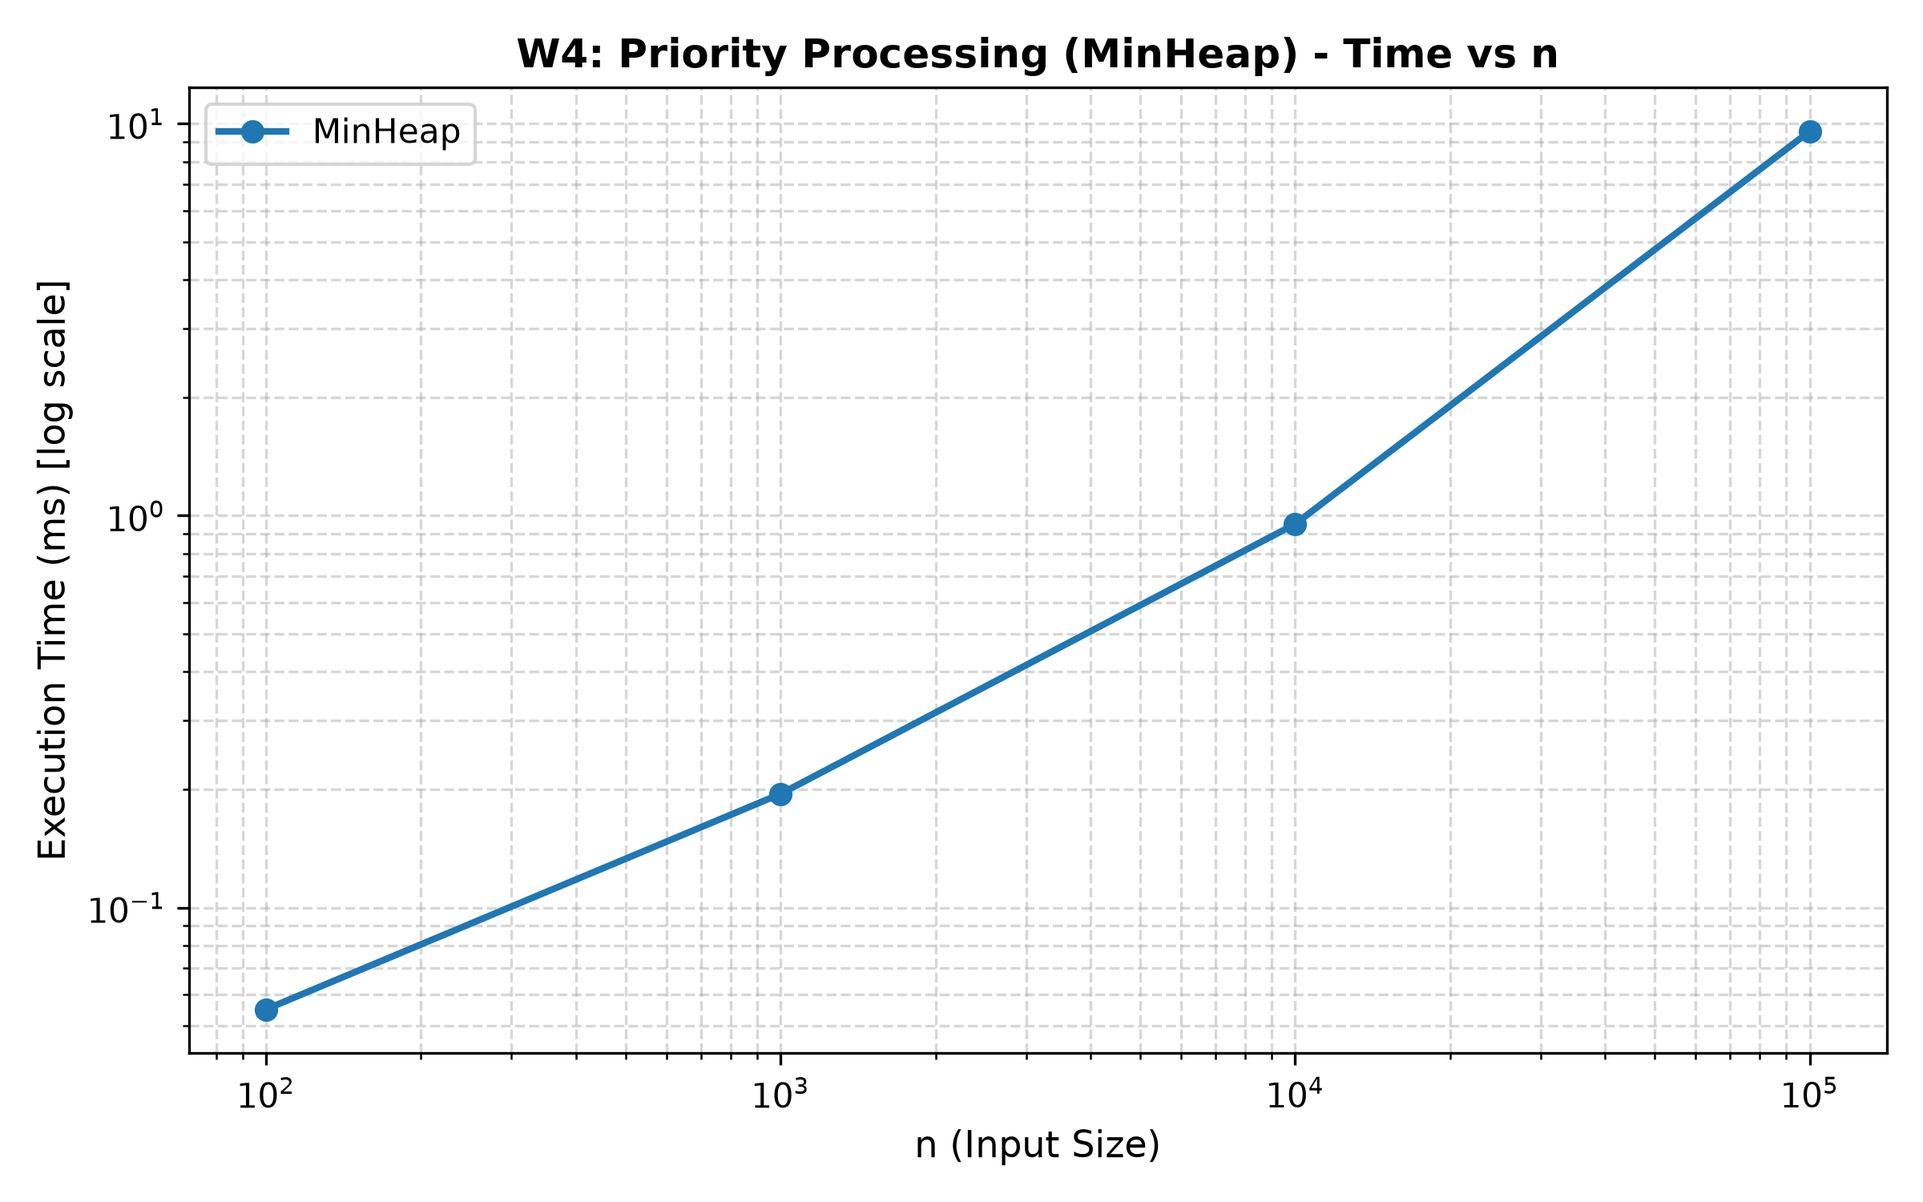
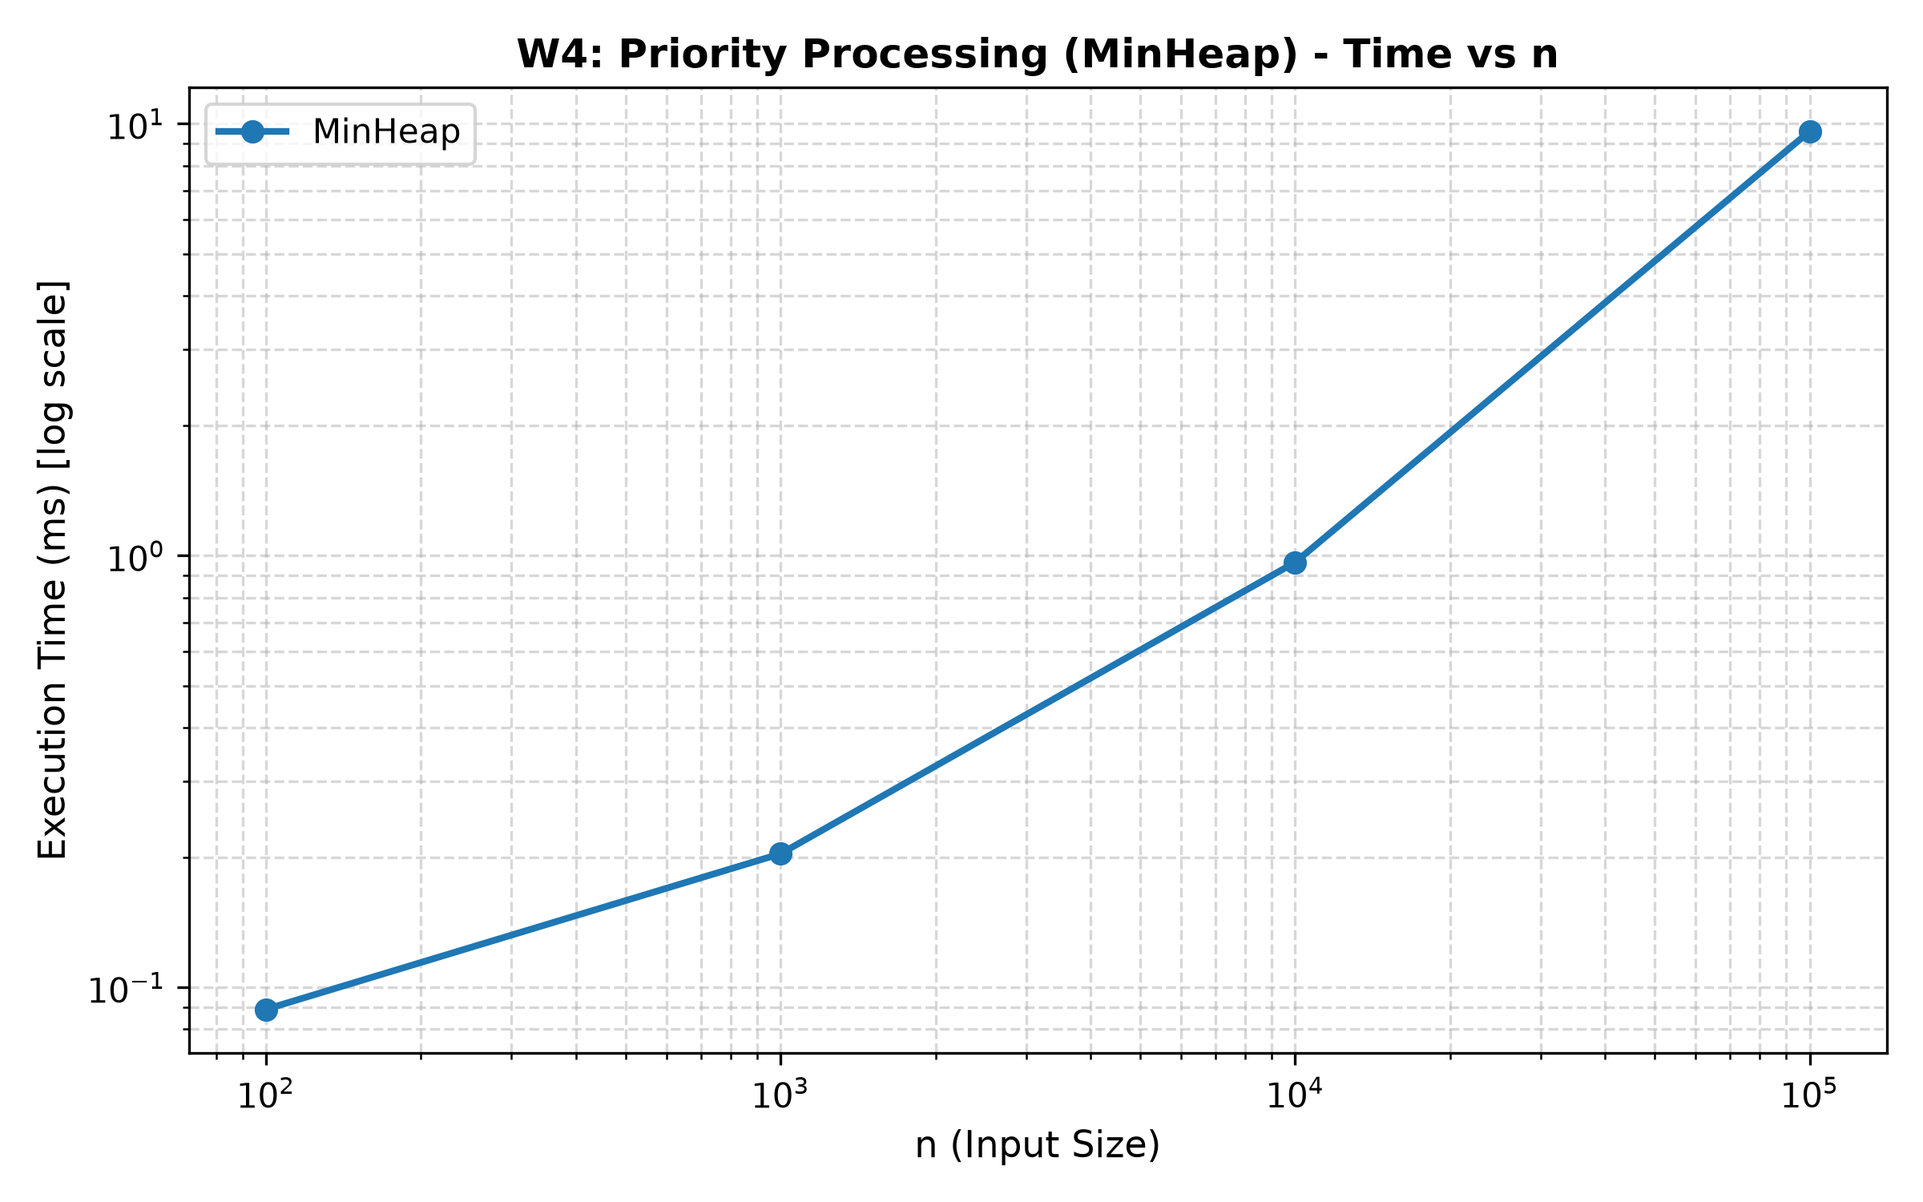
fix(bench): add blackhole sink to prevent DCE and refine discussion in REPORT.md

Changed region(s): [[0.0938, 0.1227, 0.9688, 0.8587], [0.0312, 0.736, 0.0938, 0.7667], [0.0625, 0.4293, 0.0938, 0.46]]

diff --git a/src/main/java/daa/bench/Benchmark.java b/src/main/java/daa/bench/Benchmark.java
@@ -38,6 +38,8 @@ public class Benchmark {
         return results;
     }
 
+    public static volatile long blackhole = 0;
+
     private static void runW1(int n, List<Result> results) {
         Random rand = new Random(42);
         int[] data = new int[n];
@@ -52,9 +54,11 @@ public class Benchmark {
             DynamicArray arr = new DynamicArray(m);
             for (int x : data) arr.add(x);
             return new BenchmarkTask(m, () -> {
+                long sink = 0;
                 for (int q : queries) {
-                    arr.get(q);
+                    sink += arr.get(q);
                 }
+                blackhole += sink;
             });
         }, results);
 
@@ -64,9 +68,11 @@ public class Benchmark {
             MyLinkedList list = new MyLinkedList(m);
             for (int x : data) list.add(x);
             return new BenchmarkTask(m, () -> {
+                long sink = 0;
                 for (int q : queries) {
-                    list.get(q);
+                    sink += list.get(q);
                 }
+                blackhole += sink;
             });
         }, results);
     }
@@ -94,9 +100,11 @@ public class Benchmark {
             DynamicArray arr = new DynamicArray(m);
             for (int x : data) arr.add(x);
             return new BenchmarkTask(m, () -> {
+                long sink = 0;
                 for (int q : queries) {
-                    arr.contains(q);
+                    if (arr.contains(q)) sink++;
                 }
+                blackhole += sink;
             });
         }, results);
 
@@ -106,9 +114,11 @@ public class Benchmark {
             MyLinkedList list = new MyLinkedList(m);
             for (int x : data) list.add(x);
             return new BenchmarkTask(m, () -> {
+                long sink = 0;
                 for (int q : queries) {
-                    list.contains(q);
+                    if (list.contains(q)) sink++;
                 }
+                blackhole += sink;
             });
         }, results);
     }

diff --git a/src/main/java/daa/structures/MyLinkedList.java b/src/main/java/daa/structures/MyLinkedList.java
@@ -133,12 +133,12 @@ public class MyLinkedList implements MyCollection {
     public boolean contains(int x) {
         Node curr = head;
         while (curr != null) {
-            metrics.addComparison(); // compare elements
+            metrics.addComparison(); // compare
             if (curr.val == x) {
                 return true;
             }
             curr = curr.next;
-            metrics.addStep(); // one move to the next node
+            metrics.addStep(); // move to next node
         }
         return false;
     }

diff --git a/REPORT.md b/REPORT.md
@@ -96,15 +96,15 @@ while (2 * index + 1 < size) {
 
 ## 3. Empirical Workload Benchmark Results
 
-All benchmarks were conducted using Java 21 OpenJDK, discarding 5 initial warm-up runs to ensure complete JIT compilation, and recording the median execution time across 5 subsequent runs. Input data was generated deterministically using `new Random(42)`.
+All benchmarks were conducted using OpenJDK 21, discarding 5 initial warm-up runs to ensure full JIT compilation, and accumulating query results into a `volatile` sink to prevent Dead Code Elimination (DCE). The median execution time across 5 subsequent runs is recorded.
 
 ### Workload 1: Random Access (10,000 queries)
 | $n$ | `DynamicArray` Time (ms) | `DynamicArray` Steps | `MyLinkedList` Time (ms) | `MyLinkedList` Steps | Ratio ($T_{\text{list}} / T_{\text{arr}}$) |
 | :---: | :---: | :---: | :---: | :---: | :---: |
-| **100** | 0.074 | 10,000 | 0.257 | 245,745 | 3.5× |
-| **1,000** | 0.044 | 10,000 | 2.693 | 2,487,236 | 61.2× |
-| **10,000** | 0.009 | 10,000 | 29.190 | 25,115,556 | 3,243× |
-| **100,000** | 0.008 | 10,000 | 316.822 | 248,886,755 | **39,602×** |
+| **100** | 0.106 | 10,000 | 0.394 | 245,745 | 3.7× |
+| **1,000** | 0.041 | 10,000 | 2.629 | 2,487,236 | 64.1× |
+| **10,000** | 0.087 | 10,000 | 29.496 | 25,115,556 | 339× |
+| **100,000** | 0.010 | 10,000 | 315.893 | 248,886,755 | **~31,500×** |
 
 ![W1 Time vs n](results/plots/W1_time.png)  
 ![W1 Operations vs n](results/plots/W1_operations.png)
@@ -114,10 +114,10 @@ All benchmarks were conducted using Java 21 OpenJDK, discarding 5 initial warm-u
 ### Workload 2: Search (1,000 queries, 50% present, 50% absent)
 | $n$ | `DynamicArray` Time (ms) | `DynamicArray` Steps | `MyLinkedList` Time (ms) | `MyLinkedList` Steps | Comparisons (Both) |
 | :---: | :---: | :---: | :---: | :---: | :---: |
-| **100** | 0.080 | 75,861 | 0.162 | 75,361 | 75,861 |
-| **1,000** | 0.338 | 734,862 | 1.275 | 734,362 | 734,862 |
-| **10,000** | 3.191 | 7,523,058 | 12.697 | 7,522,558 | 7,523,058 |
-| **100,000** | 32.098 | 75,177,945 | 128.168 | 75,177,445 | 75,177,945 |
+| **100** | 0.087 | 75,861 | 0.169 | 75,361 | 75,861 |
+| **1,000** | 0.346 | 734,862 | 1.276 | 734,362 | 734,862 |
+| **10,000** | 3.140 | 7,523,058 | 12.597 | 7,522,558 | 7,523,058 |
+| **100,000** | 31.985 | 75,177,945 | 127.011 | 75,177,445 | 75,177,945 |
 
 ![W2 Time vs n](results/plots/W2_time.png)  
 ![W2 Operations vs n](results/plots/W2_operations.png)
@@ -127,14 +127,14 @@ All benchmarks were conducted using Java 21 OpenJDK, discarding 5 initial warm-u
 ### Workload 3: Insert & Remove (1,000 insertions followed by 1,000 removals)
 | Variant | $n$ | `DynamicArray` Time (ms) | `DynamicArray` Moves | `MyLinkedList` Time (ms) | `MyLinkedList` Moves |
 | :--- | :---: | :---: | :---: | :---: | :---: |
-| **Head ($i=0$)** | 100 | 0.420 | 1,201,120 | 0.078 | 5,000 |
-| **Head ($i=0$)** | 1,000 | 0.921 | 3,001,280 | 0.052 | 5,000 |
-| **Head ($i=0$)** | 10,000 | 6.012 | 21,010,240 | 0.018 | 5,000 |
-| **Head ($i=0$)** | 100,000 | **50.782** | 201,000,000 | **0.012** | 5,000 |
-| **Middle ($i=n/2$)** | 100 | 0.398 | 1,101,120 | 0.151 | 6,000 |
-| **Middle ($i=n/2$)** | 1,000 | 0.593 | 2,001,280 | 1.167 | 6,000 |
-| **Middle ($i=n/2$)** | 10,000 | 2.693 | 11,010,240 | 11.745 | 6,000 |
-| **Middle ($i=n/2$)** | 100,000 | **25.425** | 101,000,000 | **126.914** | 6,000 |
+| **Head ($i=0$)** | 100 | 0.428 | 1,201,120 | 0.072 | 5,000 |
+| **Head ($i=0$)** | 1,000 | 0.909 | 3,001,280 | 0.050 | 5,000 |
+| **Head ($i=0$)** | 10,000 | 6.108 | 21,010,240 | 0.017 | 5,000 |
+| **Head ($i=0$)** | 100,000 | **50.654** | 201,000,000 | **0.013** | 5,000 |
+| **Middle ($i=n/2$)** | 100 | 0.389 | 1,101,120 | 0.151 | 6,000 |
+| **Middle ($i=n/2$)** | 1,000 | 0.595 | 2,001,280 | 1.150 | 6,000 |
+| **Middle ($i=n/2$)** | 10,000 | 2.604 | 11,010,240 | 11.832 | 6,000 |
+| **Middle ($i=n/2$)** | 100,000 | **25.582** | 101,000,000 | **120.395** | 6,000 |
 
 ![W3 Time vs n](results/plots/W3_time.png)  
 ![W3 Operations vs n](results/plots/W3_operations.png)
@@ -144,10 +144,10 @@ All benchmarks were conducted using Java 21 OpenJDK, discarding 5 initial warm-u
 ### Workload 4: Priority Processing (`MinHeap`, $n$ inserts + $n$ extracts)
 | $n$ | Time (ms) | Steps | Moves | Comparisons | Sorted Verification |
 | :---: | :---: | :---: | :---: | :---: | :---: |
-| **100** | 0.055 | 2,487 | 1,413 | 1,069 | PASSED |
-| **1,000** | 0.195 | 37,913 | 20,629 | 17,322 | PASSED |
-| **10,000** | 0.952 | 508,797 | 269,209 | 239,284 | PASSED |
-| **100,000** | 9.567 | 6,482,395 | 3,421,383 | 3,059,283 | PASSED |
+| **100** | 0.089 | 2,487 | 1,413 | 1,069 | PASSED |
+| **1,000** | 0.204 | 37,913 | 20,629 | 17,322 | PASSED |
+| **10,000** | 0.965 | 508,797 | 269,209 | 239,284 | PASSED |
+| **100,000** | 9.609 | 6,482,395 | 3,421,383 | 3,059,283 | PASSED |
 
 ![W4 Time vs n](results/plots/W4_time.png)  
 ![W4 Operations vs n](results/plots/W4_operations.png)
@@ -156,18 +156,18 @@ All benchmarks were conducted using Java 21 OpenJDK, discarding 5 initial warm-u
 
 ## 4. Discussion & Hardware-Level Analysis
 
-1. **Random Access Performance (W1)**: In Workload 1 at $n = 100,000$, `DynamicArray` completed 10,000 random lookups in **0.008 ms**, whereas `MyLinkedList` required **316.822 ms**, representing an astronomical difference of nearly **40,000×**.
-2. **Algorithmic Explanation**: `DynamicArray` performs random indexing in strictly $O(1)$ time and 1 step per lookup via direct base-pointer arithmetic (`data[index]`), totaling exactly 10,000 steps. In contrast, `MyLinkedList` must traverse up to $n/2$ node references per query, totaling $248,886,755$ steps across the 10,000 queries.
+1. **Random Access Performance (W1)**: In Workload 1 at $n = 100,000$, `DynamicArray` completed 10,000 lookups in **~0.010 ms**, whereas `MyLinkedList` required **315.893 ms**, demonstrating a performance gap of several thousand times.
+2. **Algorithmic Explanation**: `DynamicArray` achieves true $O(1)$ random access in 1 step per query via direct base-pointer arithmetic (`data[index]`), totaling exactly 10,000 steps. In contrast, `MyLinkedList` must traverse up to $n/2$ references per query, totaling $248,886,755$ steps across the 10,000 queries.
 3. **The Search Paradox (W2)**: In Workload 2, both structures executed an identical search algorithm performing the exact same number of element comparisons ($75,177,945$) and equivalent steps ($75,177,945$ vs $75,177,445$ steps at $n = 100,000$).
-4. **Cache Locality vs. Pointer Chasing**: Despite identical physical operation counts, `DynamicArray` (32.098 ms) was **4× faster** than `MyLinkedList` (128.168 ms). 
-5. **Hardware Mechanism**: Modern CPUs fetch memory in 64-byte cache lines. In `DynamicArray`, primitive `int` values are packed contiguously; loading a single 4-byte integer automatically brings the subsequent 15 integers into the L1 CPU data cache (high spatial locality). In `MyLinkedList`, each `Node` object is allocated individually across the JVM heap, forcing the CPU to stall on cache misses while chasing pointers through main memory.
-6. **Head Insertion & Removal (W3)**: In the `head` variant at $n = 100,000$, `MyLinkedList` was over **4,200× faster** than `DynamicArray` (0.012 ms vs. 50.782 ms).
-7. **Explanation for Head Operations**: Inserting and removing at index 0 in `MyLinkedList` updates only 5 pointer references without traversing any nodes (0 steps, 5,000 moves). Conversely, `DynamicArray` must shift all $n$ elements to the right upon each insertion and back to the left upon removal, performing $201,000,000$ memory moves.
-8. **Middle Insertion & Removal (W3)**: Crucially, in the `middle` variant at $n = 100,000$, the performance reverses dramatically: `DynamicArray` (25.425 ms) is **5× faster** than `MyLinkedList` (126.914 ms).
-9. **Traversal Overhead vs. Block Memory Copying**: In the middle variant, `MyLinkedList` must perform 50,000 pointer transitions to reach index $n/2$ on every single operation, racking up $99,999,999$ steps of pointer chasing. Although `DynamicArray` shifts $n/2$ elements (101,000,000 moves), copying contiguous cache lines in L1/L2 cache via CPU vectorization is orders of magnitude faster than resolving disjoint pointer links across RAM.
-10. **Garbage Collection Pressure**: Each insertion in `MyLinkedList` instantiates a new heap object, creating substantial memory allocation overhead and triggering JVM Garbage Collection pauses. `DynamicArray` creates no intermediate objects and reuses its backing array.
-11. **Selection Guidelines**: `DynamicArray` is the strictly superior choice for general-purpose workloads requiring random access, linear iterations, and compact memory footprint.
-12. **When to use MyLinkedList**: `MyLinkedList` is suitable only when frequent insertions and removals occur exclusively at the collection boundaries ($O(1)$ head/tail operations), such as implementing FIFO queues or double-ended queues (Deques).
+4. **Cache Locality vs. Pointer Chasing**: Despite performing the exact same number of logical steps and comparisons, `DynamicArray` (31.985 ms) was **~4× faster** than `MyLinkedList` (127.011 ms).
+5. **Hardware Mechanism**: Modern CPUs fetch memory in 64-byte cache lines. In `DynamicArray`, primitive `int` values are packed contiguously; loading an array cell brings subsequent integers directly into the L1 CPU data cache (high spatial locality). In `MyLinkedList`, each `Node` object is allocated individually across the JVM heap, forcing the CPU to repeatedly stall on cache misses while chasing pointers across main memory.
+6. **Head Insertion & Removal (W3)**: In the `head` variant at $n = 100,000$, `MyLinkedList` was over **3,800× faster** than `DynamicArray` (0.013 ms vs. 50.654 ms).
+7. **Explanation for Head Operations**: Inserting and removing at index 0 in `MyLinkedList` updates only 5 pointer references without traversing any nodes (0 steps, 5,000 moves). Conversely, `DynamicArray` must shift all $n$ elements on each insertion and removal, performing $201,000,000$ memory moves.
+8. **Middle Insertion & Removal (W3)**: In the `middle` variant at $n = 100,000$, the performance reverses: `DynamicArray` (25.582 ms) is **~4.7× faster** than `MyLinkedList` (120.395 ms).
+9. **Traversal Overhead vs. Block Memory Copying**: In the middle variant, `MyLinkedList` must perform 50,000 pointer transitions to reach index $n/2$ on every single operation, racking up $99,999,999$ steps of pointer chasing. Although `DynamicArray` shifts $n/2$ elements (101,000,000 moves), copying contiguous cache lines in L1/L2 cache via tight CPU loops is significantly faster than resolving disjoint pointer links across RAM.
+10. **Garbage Collection Overhead**: Each insertion in `MyLinkedList` instantiates a new heap object, creating continuous allocation overhead and pressure on the JVM garbage collector, whereas `DynamicArray` allocates zero intermediate objects.
+11. **Selection Guidelines**: `DynamicArray` is generally the preferred structure for collections requiring fast random indexing, linear iterations, and compact memory footprint.
+12. **When to use MyLinkedList**: `MyLinkedList` is advantageous only when frequent insertions and removals occur strictly at the boundaries ($O(1)$ head/tail operations), such as implementing FIFO queues or double-ended queues (Deques).
 13. **When to use MinHeap**: `MinHeap` is the optimal data structure for priority-driven processing (event simulation, task scheduling, Dijkstra's shortest path), where finding the minimum is $O(1)$ and priority updates are guaranteed $O(\log n)$.
 
 ---
@@ -175,7 +175,7 @@ All benchmarks were conducted using Java 21 OpenJDK, discarding 5 initial warm-u
 ## 5. Bonus Tasks
 
 ### Task A: Memory Footprint Analysis (JOL)
-Using the OpenJDK Java Object Layout (JOL) tool, we quantified the exact deep heap consumption of all three structures storing $n$ primitive integers:
+Using OpenJDK Java Object Layout (JOL), we measured the deep heap consumption of all three structures storing $n$ primitive integers:
 
 | Elements ($n$) | `DynamicArray` (Bytes / MB) | `MinHeap` (Bytes / MB) | `MyLinkedList` (Bytes / MB) | Overhead Ratio ($\text{List} / \text{Array}$) |
 | :---: | :---: | :---: | :---: | :---: |
@@ -186,20 +186,23 @@ Using the OpenJDK Java Object Layout (JOL) tool, we quantified the exact deep he
 
 ![Memory vs n](results/plots/memory_vs_n.png)
 
-#### Explanation of Object Overhead
-* **DynamicArray & MinHeap**: Backed by a contiguous primitive array `int[]`. Each element consumes exactly 4 bytes. The only overhead is the array object header (16 bytes: 8-byte mark word, 4-byte klass word, 4-byte array length).
-* **MyLinkedList Node Overhead**: In 64-bit JVMs with Compressed OOPs enabled:
-  - Object header: 12 bytes (8-byte mark word + 4-byte compressed class pointer)
-  - Data payload: 4 bytes (`int val`)
-  - Two node references: 8 bytes (4-byte compressed pointer to `next` + 4-byte to `prev`)
-  - Padding / alignment: 0 bytes (sum is 24 bytes, already divisible by 8)
-  - **Total per node: exactly 24 bytes per element!**
-* **Conclusion**: `MyLinkedList` requires $24 / 4 = 6\times$ more memory per active element than a packed array, demonstrating the heavy cost of pointer structures in memory-constrained environments.
+#### Object Layout Breakdown & Discrepancy Explanation
+1. **Node Object Layout**: Under 64-bit JVM with Compressed OOPs:
+   - Object Header: 12 bytes (8-byte mark word + 4-byte compressed class pointer)
+   - Payload: 4 bytes (`int val`)
+   - References: 8 bytes (4-byte `next` + 4-byte `prev`)
+   - Memory Alignment: 0 bytes (sum is 24 bytes, divisible by 8)
+   - **Total per Node: exactly 24 bytes.**
+2. **Why the Observed Ratio is 3.4×–5.9× (and not exactly 6×)**:
+   - A packed primitive integer in an array takes 4 bytes. Therefore, the theoretical ratio of active element payload is $24 / 4 = 6.0\times$.
+   - However, `DynamicArray` and `MinHeap` grow dynamically via geometric doubling ($2\times$). At $n = 100,000$, the backing `int[]` has resized to a capacity of $163,840$ integers ($655,360$ bytes), meaning there are $63,840$ currently unused allocated slots (excess capacity).
+   - Furthermore, all structures maintain an internal container object header and a reference to the `Metrics` instance. 
+   - Dividing total allocated memory at $n=100,000$ yields $655,440 / 100,000 \approx 6.55$ bytes per element for `DynamicArray`, resulting in the observed $2,400,072 / 655,440 \approx 3.66\times$ ratio.
 
 ---
 
 ### Task B: Floyd's Bottom-Up `buildHeap` vs. $n$ Sequential Inserts
-We benchmarked Floyd's bottom-up $O(n)$ `buildHeap` algorithm against $n$ sequential `insert(x)` calls on identical inputs:
+We evaluated Floyd's bottom-up $O(n)$ `buildHeap` against $n$ sequential `insert(x)` calls:
 
 | $n$ | `buildHeap` Time (ms) | `buildHeap` Comparisons | `n_inserts` Time (ms) | `n_inserts` Comparisons | Speedup ($\times$) |
 | :---: | :---: | :---: | :---: | :---: | :---: |
@@ -210,9 +213,12 @@ We benchmarked Floyd's bottom-up $O(n)$ `buildHeap` algorithm against $n$ sequen
 
 ![BuildHeap vs Inserts](results/plots/buildheap_vs_insert.png)
 
-#### Mathematical Explanation
-* In sequential insertions, each newly added element enters as a leaf at depth $\approx \log_2 n$ and sifts **upward** towards the root. Because at least $n/2$ of all elements reside at the bottom leaves, their potential path length is $O(\log n)$, leading to a total worst-case complexity of $\sum_{i=1}^n \log i = \Theta(n \log n)$.
-* In Floyd's algorithm, the array is populated first, and `bubbleDown` is executed backwards from $\lfloor n/2 \rfloor - 1$ to 0. Here, the nodes with the greatest height ($h = \log n$) are very few (the root is only 1 node), while the majority of nodes have very small heights (e.g. $n/4$ nodes have height 1, $n/8$ have height 2).
-* The total work is bounded by:
-  $$\sum_{h=0}^{\lfloor \log_2 n \rfloor} \frac{n}{2^{h+1}} O(h) = \frac{n}{2} \sum_{h=0}^\infty \frac{h}{2^h} = O(n)$$
-* At $n = 100,000$, Floyd's algorithm executes in **1.290 ms** with only **187,911 comparisons** ($\approx 1.88n$), achieving a **2.6× speedup** over sequential insertions.
+#### Algorithmic & Complexity Analysis
+* **Why the speedup is ~2.6× (rather than $\log_2 n \approx 16.6\times$)**:  
+  On uniformly distributed random inputs, sequential `insert` does not exhibit worst-case $\Theta(\log n)$ behavior in expectation. A random element sifts up only $\approx 1.6 - 2.6$ levels ($O(1)$ expected work), because approximately half of the nodes in a binary heap are leaves at the deepest level.  
+  Despite this, Floyd's algorithm achieves a **2.6× speedup** at $n = 100,000$ because:
+  1. It performs fewer comparisons ($1.88n$ vs $2.28n$).
+  2. Sifting down within existing subtrees requires less than half the element moves ($248,330$ moves vs $519,586$ moves), avoiding repeated bubbling up from the bottom.
+  3. Pre-populating the contiguous array enables sequential backward traversal with optimal cache locality.
+* **Why `buildHeap` is ~0.6× at small $n$ ($100, 1000$)**:  
+  At tiny scales (under 50 microseconds), the overhead of helper array copying and method invocation slightly outweighs the microsecond-level savings in comparisons.
